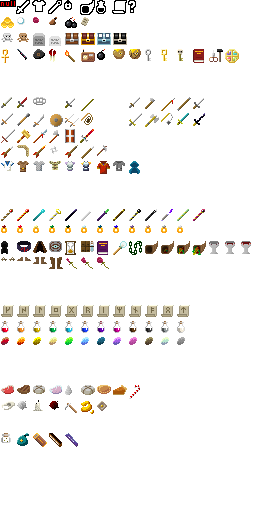
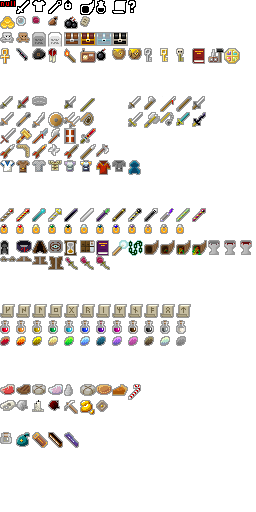
Added some more things to DragonKnight such as food interactions and armors

diff --git a/shattered-pixel-dungeon-master/core/src/main/java/com/shatteredpixel/shatteredpixeldungeon/items/armor/DragonKnightArmor.java b/shattered-pixel-dungeon-master/core/src/main/java/com/shatteredpixel/shatteredpixeldungeon/items/armor/DragonKnightArmor.java
@@ -1,8 +1,66 @@
 package com.shatteredpixel.shatteredpixeldungeon.items.armor;
+import com.shatteredpixel.shatteredpixeldungeon.Dungeon;
+import com.shatteredpixel.shatteredpixeldungeon.actors.mobs.Mob;
+import com.shatteredpixel.shatteredpixeldungeon.items.Item;
+import com.shatteredpixel.shatteredpixeldungeon.items.weapon.missiles.Shuriken;
+import com.shatteredpixel.shatteredpixeldungeon.levels.Level;
+import com.shatteredpixel.shatteredpixeldungeon.messages.Messages;
+import com.shatteredpixel.shatteredpixeldungeon.sprites.ItemSpriteSheet;
+import com.shatteredpixel.shatteredpixeldungeon.sprites.MissileSprite;
+import com.shatteredpixel.shatteredpixeldungeon.utils.GLog;
+import com.watabou.utils.Callback;
+
+
+import com.shatteredpixel.shatteredpixeldungeon.sprites.ItemSpriteSheet;
+
+import java.util.HashMap;
 
 /**
  * Created by dhoang9775 on 10/16/2017.
  */
 
-public class DragonKnightArmor {
+public class DragonKnightArmor extends ClassArmor {
+    {
+        image = ItemSpriteSheet.ARMOR_DRAGON_KNIGHT;
+    }
+
+    private HashMap<Callback, Mob> targets = new HashMap<Callback, Mob>();
+
+    @Override
+    public void doSpecial() {
+
+        Item proto = new Shuriken();
+
+        for (Mob mob : Dungeon.level.mobs) {
+            if (Level.fieldOfView[mob.pos]) {
+
+                Callback callback = new Callback() {
+                    @Override
+                    public void call() {
+                        curUser.attack( targets.get( this ) );
+                        targets.remove( this );
+                        if (targets.isEmpty()) {
+                            curUser.spendAndNext( curUser.attackDelay() );
+                        }
+                    }
+                };
+
+                ((MissileSprite)curUser.sprite.parent.recycle( MissileSprite.class )).
+                        reset( curUser.pos, mob.pos, proto, callback );
+
+                targets.put( callback, mob );
+            }
+        }
+
+        if (targets.size() == 0) {
+            GLog.w( Messages.get(this, "no_enemies") );
+            return;
+        }
+
+        curUser.HP -= (curUser.HP / 3);
+
+        curUser.sprite.zap( curUser.pos );
+        curUser.busy();
+    }
+
 }

diff --git a/shattered-pixel-dungeon-master/core/src/main/java/com/shatteredpixel/shatteredpixeldungeon/ui/Icons.java b/shattered-pixel-dungeon-master/core/src/main/java/com/shatteredpixel/shatteredpixeldungeon/ui/Icons.java
@@ -25,6 +25,9 @@ import com.shatteredpixel.shatteredpixeldungeon.Assets;
 import com.shatteredpixel.shatteredpixeldungeon.actors.hero.HeroClass;
 import com.watabou.noosa.Image;
 
+import static com.shatteredpixel.shatteredpixeldungeon.actors.hero.HeroClass.DRAGONKNIGHT;
+import static com.shatteredpixel.shatteredpixeldungeon.ui.Icons.DRAGONKNIGHT;
+
 public enum Icons {
 
 	SKULL,
@@ -108,6 +111,9 @@ public enum Icons {
 		case HUNTRESS:
 			icon.frame( icon.texture.uvRect( 48, 29, 64, 45 ) );
 			break;
+		case DRAGONKNIGHT:
+			icon.frame( icon.texture.uvRect( 48, 29, 64, 45 ) );
+			break;
 		case CLOSE:
 			icon.frame( icon.texture.uvRect( 0, 45, 13, 58 ) );
 			break;
@@ -173,6 +179,8 @@ public enum Icons {
 			return get( ROGUE );
 		case HUNTRESS:
 			return get( HUNTRESS );
+		case DRAGONKNIGHT:
+			return get( DRAGONKNIGHT );
 		default:
 			return null;
 		}

diff --git a/shattered-pixel-dungeon-master/core/src/main/java/com/shatteredpixel/shatteredpixeldungeon/sprites/ItemSpriteSheet.java b/shattered-pixel-dungeon-master/core/src/main/java/com/shatteredpixel/shatteredpixeldungeon/sprites/ItemSpriteSheet.java
@@ -234,6 +234,7 @@ public class ItemSpriteSheet {
 	public static final int ARMOR_MAGE      = ARMOR+6;
 	public static final int ARMOR_ROGUE     = ARMOR+7;
 	public static final int ARMOR_HUNTRESS  = ARMOR+8;
+	public static final int ARMOR_DRAGON_KNIGHT =ARMOR+9;
 	static{
 		assignItemRect(ARMOR_CLOTH,     15, 12);
 		assignItemRect(ARMOR_LEATHER,   14, 13);
@@ -244,6 +245,7 @@ public class ItemSpriteSheet {
 		assignItemRect(ARMOR_MAGE,      15, 15);
 		assignItemRect(ARMOR_ROGUE,     14, 12);
 		assignItemRect(ARMOR_HUNTRESS,  13, 15);
+		assignItemRect(ARMOR_DRAGON_KNIGHT,	13, 15);
 	}
 
 	                                                                                    //32 free slots

diff --git a/shattered-pixel-dungeon-master/core/src/main/java/com/shatteredpixel/shatteredpixeldungeon/scenes/StartScene.java b/shattered-pixel-dungeon-master/core/src/main/java/com/shatteredpixel/shatteredpixeldungeon/scenes/StartScene.java
@@ -153,7 +153,7 @@ public class StartScene extends PixelScene {
 		float centralHeight = buttonY - title.y - title.height();
 
 		HeroClass[] classes = {
-				HeroClass.WARRIOR, HeroClass.MAGE, HeroClass.ROGUE, HeroClass.HUNTRESS
+				HeroClass.WARRIOR, HeroClass.MAGE, HeroClass.ROGUE, HeroClass.HUNTRESS, HeroClass.DRAGONKNIGHT
 		};
 		for (HeroClass cl : classes) {
 			ClassShield shield = new ClassShield( cl );

diff --git a/shattered-pixel-dungeon-master/core/src/main/java/com/shatteredpixel/shatteredpixeldungeon/items/armor/ClassArmor.java b/shattered-pixel-dungeon-master/core/src/main/java/com/shatteredpixel/shatteredpixeldungeon/items/armor/ClassArmor.java
@@ -69,9 +69,9 @@ abstract public class ClassArmor extends Armor {
 		case HUNTRESS:
 			classArmor = new HuntressArmor();
 			break;
-		/*case DRAGONKNIGHT:
+		case DRAGONKNIGHT:
 			classArmor = new DragonKnightArmor();
-			break;*/
+			break;
 		}
 		
 		classArmor.level(armor.level());

diff --git a/shattered-pixel-dungeon-master/core/src/main/java/com/shatteredpixel/shatteredpixeldungeon/actors/hero/HeroClass.java b/shattered-pixel-dungeon-master/core/src/main/java/com/shatteredpixel/shatteredpixeldungeon/actors/hero/HeroClass.java
@@ -121,7 +121,7 @@ public enum HeroClass {
 	}
 
 	private static void initWarrior( Hero hero ) {
-		(hero.belongings.weapon = new WornShortsword()).identify();
+		(hero.belongings.weapon = new DragonDagger()).identify();
 		Dart darts = new Dart( 8 );
 		darts.identify().collect();
 

diff --git a/shattered-pixel-dungeon-master/core/src/main/java/com/shatteredpixel/shatteredpixeldungeon/items/artifacts/HornOfPlenty.java b/shattered-pixel-dungeon-master/core/src/main/java/com/shatteredpixel/shatteredpixeldungeon/items/artifacts/HornOfPlenty.java
@@ -107,6 +107,7 @@ public class HornOfPlenty extends Artifact {
 						break;
 					case ROGUE:
 					case HUNTRESS:
+					case DRAGONKNIGHT:
 						break;
 				}
 

diff --git a/shattered-pixel-dungeon-master/core/src/main/java/com/shatteredpixel/shatteredpixeldungeon/items/food/Food.java b/shattered-pixel-dungeon-master/core/src/main/java/com/shatteredpixel/shatteredpixeldungeon/items/food/Food.java
@@ -88,6 +88,7 @@ public class Food extends Item {
 				break;
 			case ROGUE:
 			case HUNTRESS:
+			case DRAGONKNIGHT:
 				break;
 			}
 			
